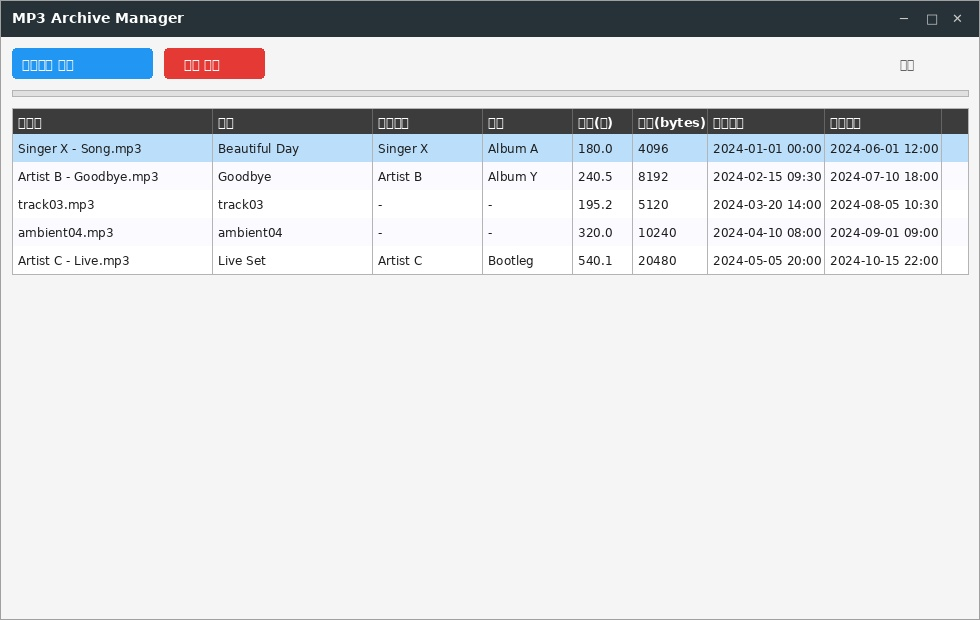
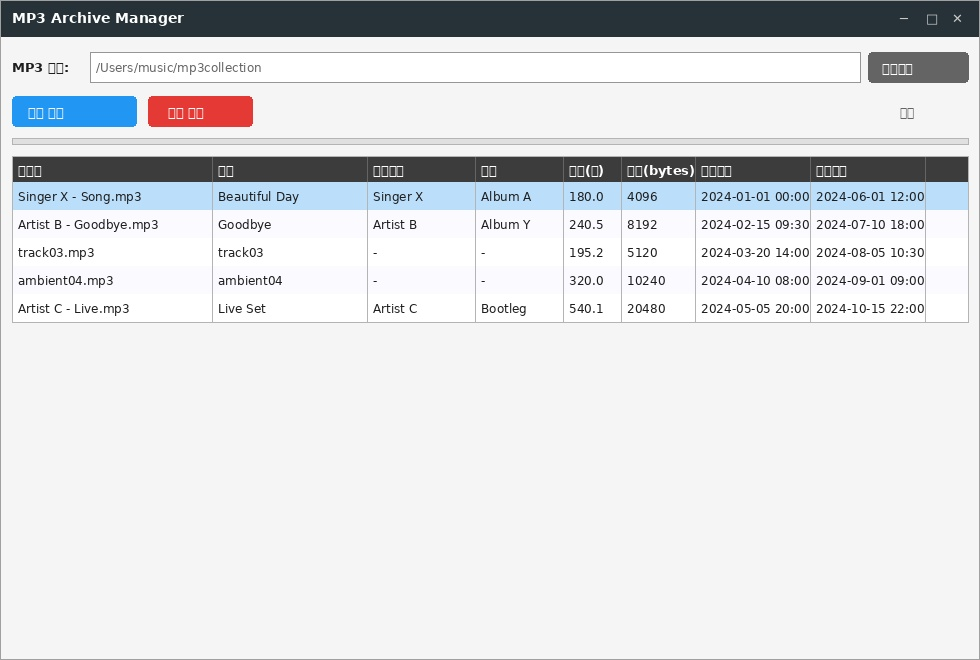
feat: add persistent MP3 path configurator with browse dialog
Add a path row above the toolbar:
- QLineEdit (read-only) shows the configured directory
- 'Browse' button opens QFileDialog to pick a directory
- Selected path is saved via QSettings and restored on next launch
- 'Scan' button uses the configured path (warns if none set)
- btn_browse is also disabled during scan

Update main_window.ui, main_window.py, and add 4 new path tests (29 total).
Regenerate ui-preview.jpg to reflect the new layout.

https://claude.ai/code/session_01YFDPmPzoyxfymLkiNHqsrJ

Changed region(s): [[0.0, 0.0, 1.0, 0.4903], [0.4898, 0.3984, 0.551, 0.429], [0.3673, 0.3984, 0.4286, 0.429]]

diff --git a/src/main_window.py b/src/main_window.py
@@ -2,7 +2,9 @@
 main_window.py - PyQt6 UI for the MP3 archive manager.
 
 Provides a main window with:
-  - Directory picker to scan for MP3 files
+  - Directory path configurator (persisted via QSettings)
+  - Browse button to open a system file explorer and select a directory
+  - Scan button to recursively find all MP3 files under the configured path
   - Progress bar updated during scan via QThread
   - Table view listing all stored MP3 records
   - Delete button to remove selected records from the database
@@ -19,7 +21,7 @@ import os
 import sys
 
 from PyQt6 import uic
-from PyQt6.QtCore import Qt, QThread, pyqtSignal
+from PyQt6.QtCore import Qt, QSettings, QThread, pyqtSignal
 from PyQt6.QtWidgets import (
     QApplication,
     QFileDialog,
@@ -33,6 +35,11 @@ from mp3_manager import Mp3Manager
 
 # Path to the Qt Designer UI file, relative to this module.
 _UI_FILE = os.path.join(os.path.dirname(__file__), "main_window.ui")
+
+# QSettings keys
+_SETTINGS_ORG  = "mp3-archive"
+_SETTINGS_APP  = "MP3ArchiveManager"
+_KEY_LAST_PATH = "scan/last_path"
 
 
 class ScanWorker(QThread):
@@ -51,14 +58,14 @@ class ScanWorker(QThread):
 
         Args:
             manager:   Shared Mp3Manager instance.
-            directory: Directory path to scan.
+            directory: Directory path to scan recursively.
         """
         super().__init__()
         self._manager = manager
         self._directory = directory
 
     def run(self) -> None:
-        """Execute the scan and emit progress/finished signals."""
+        """Execute the recursive scan and emit progress/finished signals."""
         count = self._manager.scan(
             self._directory,
             progress_callback=lambda cur, tot, path: self.progress.emit(cur, tot, path),
@@ -71,12 +78,13 @@ class MainWindow(QMainWindow):
     Main application window for the MP3 archive manager.
 
     Layout is loaded from main_window.ui; this class wires up
-    signals/slots and drives the Mp3Manager backend.
+    signals/slots, drives the Mp3Manager backend, and persists
+    the last-used directory path across sessions via QSettings.
     """
 
     def __init__(self, db_path: str) -> None:
         """
-        Load the UI file, connect signals, and open the database.
+        Load the UI file, restore saved path, connect signals, and open the database.
 
         Args:
             db_path: Path to the SQLite database file.
@@ -84,11 +92,13 @@ class MainWindow(QMainWindow):
         super().__init__()
         uic.loadUi(_UI_FILE, self)
 
-        self._manager = Mp3Manager(db_path)
+        self._manager  = Mp3Manager(db_path)
         self._worker: ScanWorker | None = None
+        self._settings = QSettings(_SETTINGS_ORG, _SETTINGS_APP)
 
         self._connect_signals()
         self._setup_table()
+        self._restore_path()
         self._load_table()
 
     # ------------------------------------------------------------------
@@ -96,7 +106,8 @@ class MainWindow(QMainWindow):
     # ------------------------------------------------------------------
 
     def _connect_signals(self) -> None:
-        """Connect button click signals to their handler slots."""
+        """Connect all button click signals to their handler slots."""
+        self.btn_browse.clicked.connect(self._on_browse_clicked)
         self.btn_scan.clicked.connect(self._on_scan_clicked)
         self.btn_delete.clicked.connect(self._on_delete_clicked)
 
@@ -109,16 +120,46 @@ class MainWindow(QMainWindow):
             1, QHeaderView.ResizeMode.Stretch
         )
 
+    def _restore_path(self) -> None:
+        """Load the last-used directory path from QSettings and display it."""
+        saved = self._settings.value(_KEY_LAST_PATH, "")
+        if saved:
+            self.path_edit.setText(saved)
+
     # ------------------------------------------------------------------
     # Slots
     # ------------------------------------------------------------------
 
-    def _on_scan_clicked(self) -> None:
-        """Open a directory picker and start the background scan worker."""
-        directory = QFileDialog.getExistingDirectory(self, "스캔할 디렉토리 선택")
+    def _on_browse_clicked(self) -> None:
+        """
+        Open the system file explorer to select a directory.
+
+        The chosen path is saved to QSettings and shown in path_edit.
+        """
+        start_dir = self.path_edit.text() or os.path.expanduser("~")
+        directory = QFileDialog.getExistingDirectory(
+            self, "MP3 경로 선택", start_dir
+        )
         if not directory:
             return
+        self.path_edit.setText(directory)
+        self._settings.setValue(_KEY_LAST_PATH, directory)
 
+    def _on_scan_clicked(self) -> None:
+        """
+        Start a recursive scan of the configured directory.
+
+        Shows an error if no path has been set yet.
+        """
+        directory = self.path_edit.text().strip()
+        if not directory:
+            QMessageBox.warning(self, "경고", "먼저 MP3 경로를 설정해주세요.")
+            return
+        if not os.path.isdir(directory):
+            QMessageBox.warning(self, "경고", f"'{directory}' 는 유효한 디렉토리가 아닙니다.")
+            return
+
+        self.btn_browse.setEnabled(False)
         self.btn_scan.setEnabled(False)
         self.btn_delete.setEnabled(False)
         self.progress_bar.setValue(0)
@@ -132,12 +173,12 @@ class MainWindow(QMainWindow):
 
     def _on_scan_progress(self, current: int, total: int, path: str) -> None:
         """
-        Update the progress bar during a scan.
+        Update the progress bar as each file is scanned.
 
         Args:
             current: 1-based index of the file just processed.
-            total:   Total number of MP3 files in the directory.
-            path:    Path of the file just processed.
+            total:   Total number of MP3 files found in the directory.
+            path:    Absolute path of the file just processed.
         """
         self.progress_bar.setMaximum(total)
         self.progress_bar.setValue(current)
@@ -151,6 +192,7 @@ class MainWindow(QMainWindow):
             count: Number of MP3 files that were scanned and saved.
         """
         self.progress_bar.setVisible(False)
+        self.btn_browse.setEnabled(True)
         self.btn_scan.setEnabled(True)
         self.btn_delete.setEnabled(True)
         self.status_label.setText(f"완료: {count}개 파일 저장됨")

diff --git a/test/test_main_window.py b/test/test_main_window.py
@@ -48,6 +48,68 @@ def sample_info(path: str = "/music/test.mp3") -> dict:
     }
 
 
+class TestMainWindowPath(unittest.TestCase):
+
+    def _make_window(self) -> MainWindow:
+        """Return a MainWindow using a temporary database file."""
+        with tempfile.NamedTemporaryFile(suffix=".db", delete=False) as f:
+            db_path = f.name
+        self._db_path = db_path
+        win = MainWindow(db_path)
+        self._win = win
+        return win
+
+    def tearDown(self):
+        if hasattr(self, "_win"):
+            self._win._manager.close()
+            self._win._settings.clear()
+        if hasattr(self, "_db_path") and os.path.exists(self._db_path):
+            os.unlink(self._db_path)
+
+    def test_path_edit_empty_on_fresh_start(self):
+        """Verify that path_edit is empty when no path has been saved."""
+        win = self._make_window()
+        win._settings.clear()
+        win._restore_path()
+        self.assertEqual(win.path_edit.text(), "")
+        win.close()
+
+    def test_browse_saves_path_to_settings(self):
+        """Verify that selecting a directory via browse saves it to QSettings."""
+        win = self._make_window()
+        with tempfile.TemporaryDirectory() as tmpdir:
+            win.path_edit.setText(tmpdir)
+            win._settings.setValue("scan/last_path", tmpdir)
+            saved = win._settings.value("scan/last_path", "")
+        self.assertEqual(saved, tmpdir)
+        win.close()
+
+    def test_scan_warns_when_no_path_set(self):
+        """Verify that clicking scan without a path shows a warning (no crash)."""
+        win = self._make_window()
+        win.path_edit.setText("")
+        # _on_scan_clicked should not raise even with empty path
+        # (QMessageBox.warning is a no-op in offscreen mode)
+        try:
+            # Monkey-patch to avoid actual dialog
+            from PyQt6.QtWidgets import QMessageBox
+            original = QMessageBox.warning
+            QMessageBox.warning = lambda *a, **k: None
+            win._on_scan_clicked()
+            QMessageBox.warning = original
+        except Exception as e:
+            self.fail(f"_on_scan_clicked raised unexpectedly: {e}")
+        win.close()
+
+    def test_restore_path_populates_path_edit(self):
+        """Verify that a previously saved path is restored into path_edit."""
+        win = self._make_window()
+        win._settings.setValue("scan/last_path", "/tmp/music")
+        win._restore_path()
+        self.assertEqual(win.path_edit.text(), "/tmp/music")
+        win.close()
+
+
 class TestMainWindowTable(unittest.TestCase):
 
     def _make_window(self) -> MainWindow: